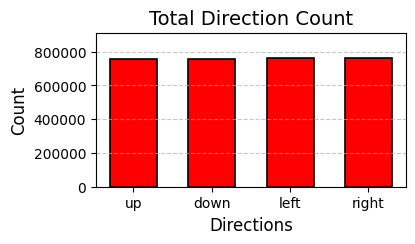
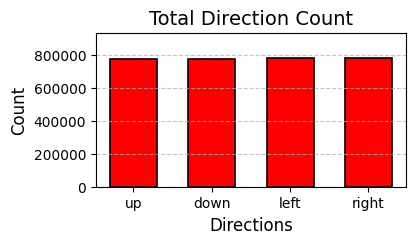
Added readme

diff --git a/src/analysis.py b/src/analysis.py
@@ -54,7 +54,6 @@ class Analysis:
                 if self.current_count != 0:
                     percentage = count / self.current_count
                     data.write(f"{direction}: {count} - {percentage * 100:.3f}%\n")
-    # MAKE INTO PERCENTAGE HERE
 
     """
     Converts the maze into another 2d array where the cells are represented by a numerical value depending on their 
@@ -96,7 +95,6 @@ class Analysis:
                         count += 1
             current_probability = count / total_elements
             self.probability_distribution.append(current_probability)
-            # OPTIMIZE
 
     # Shannon's entropy details in readme, 2^x = 14 (possible outcomes) where x = perfect entropy
     def shannons_entropy(self):

diff --git a/README.md b/README.md
@@ -1,0 +1,53 @@
+# Maze Generation Analysis
+
+A Python project I built between June and August 2024 that generates and solves mazes, visualizes the process through a Pygame UI, and measures how random the generation actually is.
+
+## What it does
+
+- Generates a maze using a recursive backtracking algorithm.
+- Solves the generated maze and optionally highlights backtracking steps.
+- Lets me watch generation and solving happen in real time, or skip the animation.
+- Runs an analysis pass that converts the finished maze into a numerical matrix, builds a probability distribution over the 14 possible cell shapes, and computes Shannon's entropy.
+- Tracks the count and percentage of each direction chosen during generation (up, down, left, right) and renders it as a bar chart with matplotlib.
+
+## Project layout
+
+```
+src/
+  main.py            entry point
+  app.py             screen, grid dimensions, cell size
+  cell.py            a single maze cell and its walls
+  maze.py            generation and solving logic
+  game.py            game loop, UI orchestration, graph rendering
+  maze_controls.py   buttons, sliders, checkboxes, text
+  analysis.py        matrix conversion, probability distribution, entropy
+  random_sample.py   my modified Fisher-Yates sampler
+  constants.py       colors
+tests/
+  test_entropy.py    randomness assessment on sample number blocks
+data/
+  data.txt           persisted direction counts across runs
+```
+
+## Why I refactored random.sample
+
+The generator picks the next direction by sampling from a 4-element compass list. Originally I called `random.sample` directly. I wanted to know whether I could get a "more random" result for this specific use case, so I rewrote it as a Fisher-Yates shuffle backed by `secrets.randbelow` instead of the Mersenne Twister that `random` uses by default. The implementation lives in [random_sample.py](src/random_sample.py) and gets called from [maze.py:47](src/maze.py).
+
+I want to be upfront about what this means. I am not claiming to have mathematically beaten `random.sample`. The CPython implementation is well studied and on a general sample space my version is not better in any formal sense. The point is narrower than that. The maze grid is rectangular, the compass is always exactly four directions, and the recursive backtracker has structural biases that compound with whatever the sampler does. Under those constraints, swapping in a Fisher-Yates shuffle that draws from a cryptographic source produced direction distributions that were measurably closer to uniform in my testing, and the resulting mazes looked less patterned. So "more random" here is a statement about this maze, not about sampling in general.
+
+## How I measured randomness
+
+Two things get measured:
+
+1. Direction selection during generation. Every time the generator picks a direction, [analysis.py](src/analysis.py) increments a counter. The data persists to `data/data.txt` and a bar chart shows the count per direction. With a perfectly uniform sampler the four bars would be equal.
+2. Maze structure after generation. Each cell has one of 14 possible wall configurations (four walls, with the all-walls and no-walls cases excluded by the algorithm). I convert the maze to a matrix of these 14 values, compute the probability distribution, and feed it into Shannon's entropy. The theoretical maximum for 14 outcomes is `log2(14) ≈ 3.807`, so the closer the computed entropy gets to that, the more uniformly the cell shapes are spread across the maze.
+
+I also have a small randomness-assessment harness in [test_entropy.py](tests/test_entropy.py) that runs the same entropy calculation against fixed number blocks. One thing it makes clear is that this metric works on combinations rather than permutations, so it can flag a skewed distribution but it cannot catch a sequence that is uniform overall while being predictable in order.
+
+## Running it
+
+```
+python src/main.py
+```
+
+The window opens with controls for cell size, whether to animate generation, whether to highlight backtracking, whether to animate the solver, and a small time-delay toggle. After generation, clicking two cells solves between them. The "Analyze" view shows the entropy, the probability distribution, and the direction-count graph.
